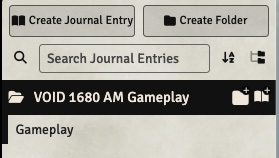
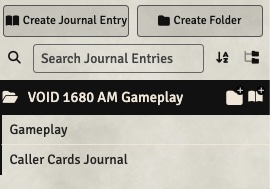
update docs

diff --git a/README.md b/README.md
@@ -58,6 +58,7 @@ https://github.com/jendave/void-1680-am/releases/latest/download/module.json
 
 * Copy the all of the entries from the Compendium into the Journal tab for easy reference.
 * The *Gameplay* journal entry describes how to play the game using the macros and roll tables.
+* The *Caller Cards Journal* can be used to keep track of your Callers for *Continuing Your Broadcast*.
 
 ![Gameplay Documents](https://github.com/jendave/void-1680-am/blob/main/docs/journal-entries-list.jpg?raw=true)
 
